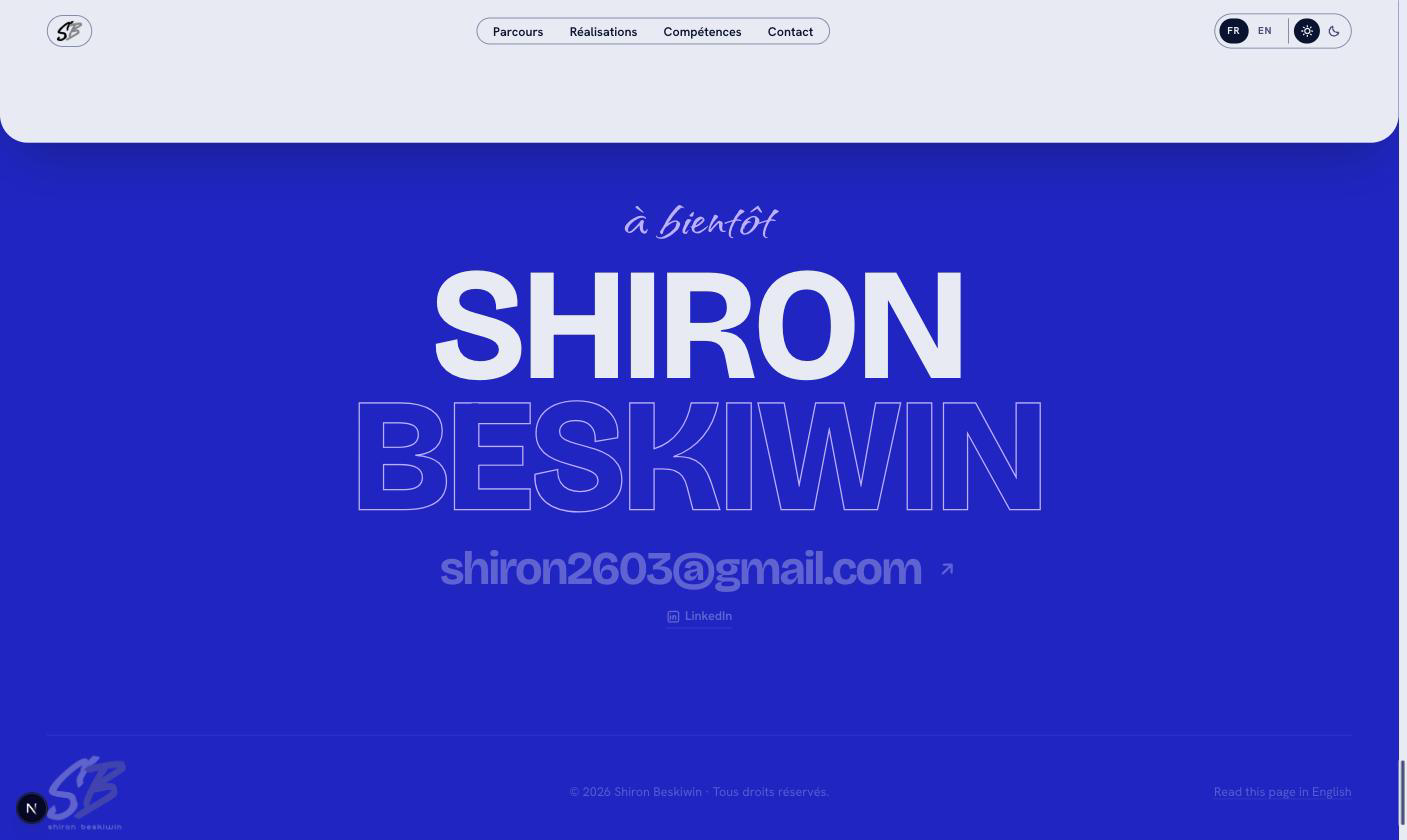
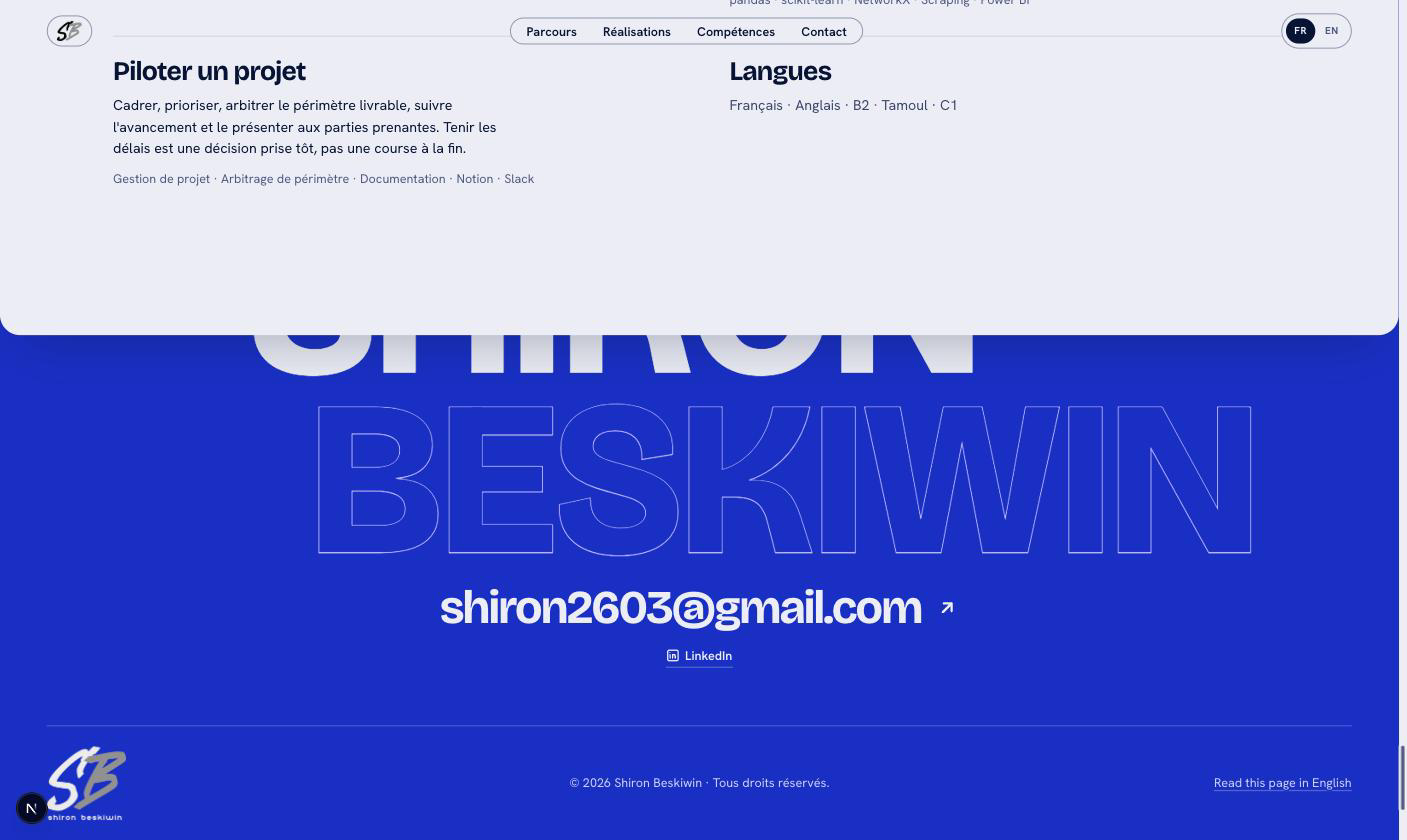
Close: reveal bottom-up, name larger, records aligned
The finish review caught the close animating top-down while the sheet
uncovers it bottom-up, so the hand and the name were already finished
when they appeared. The windows now follow the reveal: the bar first,
then the address and links, the name's halves meeting while they are
uncovered, the hand writing last, the meta row at the very end. The
mask's leading edge no longer shows the first letters before the stroke
starts. The name's cap rises from 19svh to 26svh; the meta row centres
under 720px; DESIGN.md no longer names the star as the close's sign-off
or the logo at 4rem.

Claude-Session: https://claude.ai/code/session_01Ea8863TEhmcBt6VtVY2hBB

diff --git a/app/globals.css b/app/globals.css
@@ -1386,12 +1386,15 @@ main {
   overflow: hidden;
   display: grid;
   --em: var(--live);
-  /* The finished state: every curve below evaluates to 1 with no script. */
+  /* The finished state: every curve below evaluates to 1 with no script.
+     The sheet lifts from the bottom, so the windows run bottom-up too: each
+     element moves while it is being uncovered, and the hand writes last. */
   --p: 1;
-  --t-meta: clamp(0, calc((var(--p) - 0.1) / 0.3), 1);
-  --t-sign: clamp(0, calc((var(--p) - 0.15) / 0.35), 1);
-  --t-name: clamp(0, calc((var(--p) - 0.25) / 0.45), 1);
-  --t-rise: clamp(0, calc((var(--p) - 0.75) / 0.25), 1);
+  --t-bar: clamp(0, calc((var(--p) - 0.05) / 0.25), 1);
+  --t-rise: clamp(0, calc((var(--p) - 0.3) / 0.25), 1);
+  --t-name: clamp(0, calc((var(--p) - 0.42) / 0.36), 1);
+  --t-sign: clamp(0, calc((var(--p) - 0.74) / 0.22), 1);
+  --t-meta: clamp(0, calc((var(--p) - 0.88) / 0.1), 1);
 }
 .close-inner {
   min-height: 100dvh;
@@ -1427,8 +1430,8 @@ main {
   font-variant-ligatures: no-common-ligatures;
   padding: 0.3em 0.2em 0.2em;
   margin: -0.3em -0.2em -0.2em;
-  -webkit-mask: linear-gradient(90deg, #000 calc(var(--t-sign) * 100%), transparent calc(var(--t-sign) * 100% + 6%));
-  mask: linear-gradient(90deg, #000 calc(var(--t-sign) * 100%), transparent calc(var(--t-sign) * 100% + 6%));
+  -webkit-mask: linear-gradient(90deg, #000 calc(var(--t-sign) * 106% - 6%), transparent calc(var(--t-sign) * 106%));
+  mask: linear-gradient(90deg, #000 calc(var(--t-sign) * 106% - 6%), transparent calc(var(--t-sign) * 106%));
 }
 /* The name at hero scale, cut at the horizon: the top half solid, the bottom
    half an outline, arriving from opposite sides and meeting on the line. */
@@ -1436,7 +1439,7 @@ main {
   position: relative;
   font-family: var(--font-display);
   font-weight: 700;
-  font-size: min(var(--d-hero), 19svh);
+  font-size: min(var(--d-hero), 26svh);
   line-height: 0.82;
   /* Looser than the hero: the outline half draws every contour, and at the
      hero's tracking adjacent letters overlap and their strokes cross. */
@@ -1507,6 +1510,8 @@ main {
   border-bottom-color: var(--live);
 }
 .close-bar {
+  opacity: var(--t-bar);
+  transform: translateY(calc((1 - var(--t-bar)) * 1rem));
   padding-top: var(--s-5);
   border-top: 1px solid color-mix(in srgb, var(--on-drench) 30%, transparent);
   /* Three cells, the outer two of equal width, so the copyright sits on the
@@ -1537,6 +1542,9 @@ main {
 @media (max-width: 720px) {
   .close-name {
     font-size: min(var(--d-hero), 13svh);
+  }
+  .close-meta {
+    justify-content: center;
   }
   .close-bar {
     grid-template-columns: 1fr;

diff --git a/components/Footer.tsx b/components/Footer.tsx
@@ -142,7 +142,7 @@ export default function Footer({ lang }: { lang: Lang }) {
           </ul>
         </div>
 
-        <div className="close-bar close-rise">
+        <div className="close-bar">
           {/* The field is blue in both themes, so only the light logo is
               ever right here. */}
           <img

diff --git a/DESIGN.md b/DESIGN.md
@@ -367,7 +367,7 @@ Two radii exist and nothing between them.
 
 Borders are always 1px. Interactive borders take `--edge`; structural dividers take `--rule`; inside a drenched or ink field, chip borders switch to `color-mix(currentColor 35%)` so they read against a coloured ground instead of a fixed grey.
 
-The recurring silhouette is the **four-point star** (`Star` in `icons.tsx`): filled, no stroke, used as the wordmark glyph, the marquee separator, the badge centre and the sign-off at the bottom of the contact field. It is the only decorative form in the system.
+The recurring silhouette is the **four-point star** (`Star` in `icons.tsx`): filled, no stroke, used as the wordmark glyph, the marquee separator, the badge centre and, until 2026-09-12, the sign-off at the bottom of the contact field. It is the only decorative form in the system.
 
 ### Named Rules
 
@@ -588,7 +588,7 @@ The four-column grid of groups ("eyes wander everywhere") is replaced by a ruled
 
 Shiron supplied a hand-drawn "SB" monogram (a black S, a grey B) with the wordmark "shiron beskiwin" under it, in two versions: dark for light grounds, light for dark grounds. Exports live in `public/brand/`: `sb-mark-*.png` (the monogram alone, 200px tall, transparent) and `sb-logo-*.png` (monogram plus wordmark, 640px wide). Both variants are rendered and CSS shows the one that matches the theme (`.mark-img--dark` / `--light`), so the swap needs no script.
 
-Where it appears: the header pill, replacing the star-and-"SB" wordmark (monogram at 1.5rem); the footer (full logo at 4rem); and the favicons, `app/icon.png` (512) and `app/apple-icon.png` (180), the monogram on a white square as in the favicon Shiron drew, plus `public/favicon.ico` (32). In the hero, the monogram sits at the centre of the rotating badge (34% of its size, still while the ring turns), which is where a visitor's eye lands after the name. The four-point star stays the site's own mark everywhere else: marquee separator, missions bullet, the sign-off of the close, the texture of the fields.
+Where it appears: the header pill, replacing the star-and-"SB" wordmark (monogram at 1.5rem); the close (full light logo at 5.5rem in the bar); and the favicons, `app/icon.png` (512) and `app/apple-icon.png` (180), the monogram on a white square as in the favicon Shiron drew, plus `public/favicon.ico` (32). In the hero, the monogram sits at the centre of the rotating badge (34% of its size, still while the ring turns), which is where a visitor's eye lands after the name. The four-point star stays the site's own mark everywhere else: marquee separator, missions bullet, the sign-off of the close, the texture of the fields.
 
 The entrance (added 2026-09-11, recomposed the same evening): the light monogram at the centre of the ink panel, clamp 6rem→13rem tall, drawn twice — a ghost at 14% and the full mark over it, clipped from the top by the progress so it fills from the foot up as the count runs. It settles in over 720ms on `--ease` from 0.6rem below. The number is no longer display type: it sits small in the bottom row between the name and the role, because the mark is the counter now. A first version put the mark top-left on the header's box as a hand-off; the user asked for it at the centre, loading. The panel is ink in both themes, so only the light file is rendered here — no theme pair.
 
@@ -624,7 +624,7 @@ The contact section and the footer are one thing now, `components/Footer.tsx`, o
 
 **The mechanism.** `<main>` is a sheet: it carries its own ground (`--bg`) and `z-index: 1`; the footer under it is `position: sticky; bottom: 0; z-index: 0`, a full-viewport drench field. Reaching the end of the page lifts the sheet off the poster. JavaScript publishes one number, `--p` (0 covered → 1 uncovered, from the sheet's bottom edge in the viewport), on the footer and as `--lift` on `<html>`; every motion is a CSS function of it, and reduced motion forces `--p: 1`. As the sheet lifts, its bottom corners round to 2.5rem and it casts a soft offset shadow: **the one offset shadow in the system**, and the one radius besides the education panel's, both on the sheet, never on a component.
 
-**The poster, centred, the site's only centred composition.** Top row: city and the real Paris time (`Intl.DateTimeFormat`, Europe/Paris, refreshed every 15 s) and the availability line (`t.contact.available`), under the reserved header height. Centre: "à bientôt" / "see you soon" (`t.contact.sign`) written in the hand by a mask; the name at hero scale (capped at 19svh, 13svh below 720px) cut at the horizon, the top half solid and the bottom half a `--live` outline (a 3px stroke under a fill in the field's own colour, `paint-order: stroke fill`, so the face's overlapping contours never show inside a glyph; tracking loosened to −0.005em so neighbouring outlines never cross), the two halves arriving from opposite sides and meeting on the line; the address at `--d-mail` and the links, rising last. Bottom bar: the light logo (`sb-logo-light.png`, the field is blue in both themes), the copyright, the language link.
+**The poster, centred, the site's only centred composition.** Top row: city and the real Paris time (`Intl.DateTimeFormat`, Europe/Paris, refreshed every 15 s) and the availability line (`t.contact.available`), under the reserved header height. Centre: "à bientôt" / "see you soon" (`t.contact.sign`) written in the hand by a mask, last of all, as the closing gesture; the name at hero scale (capped at 26svh, 13svh below 720px) cut at the horizon, the top half solid and the bottom half a `--live` outline (a 3px stroke under a fill in the field's own colour, `paint-order: stroke fill`, so the face's overlapping contours never show inside a glyph; tracking loosened to −0.005em so neighbouring outlines never cross), the two halves arriving from opposite sides and meeting on the line; the address at `--d-mail` and the links, rising last. Bottom bar: the light logo (`sb-logo-light.png`, the field is blue in both themes), the copyright, the language link.
 
 **The anchor.** `#contact` is a zero-height span before the sticky footer, at its natural position: scrolling to the footer itself goes nowhere, because a sticky element is always in view.
 
